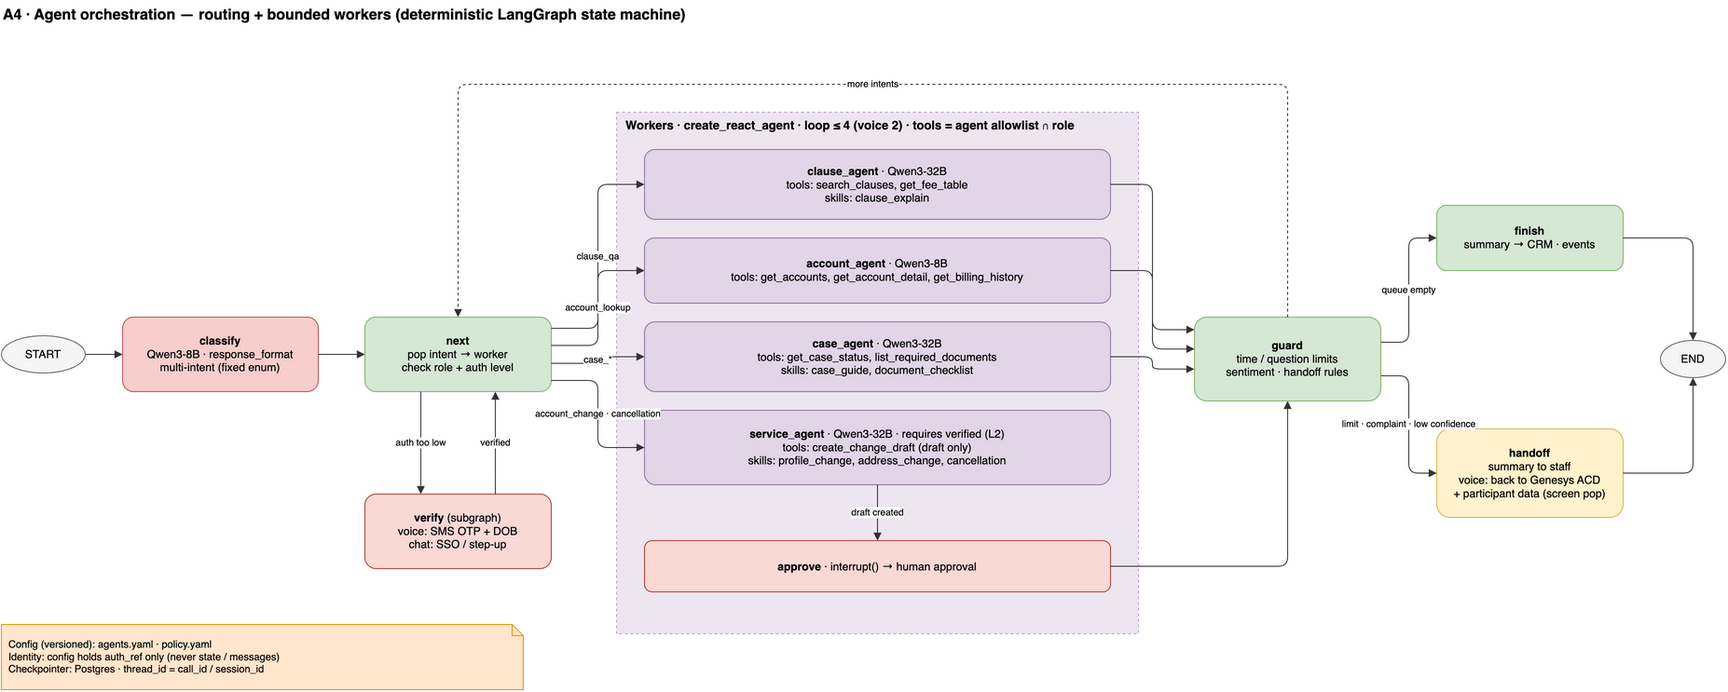
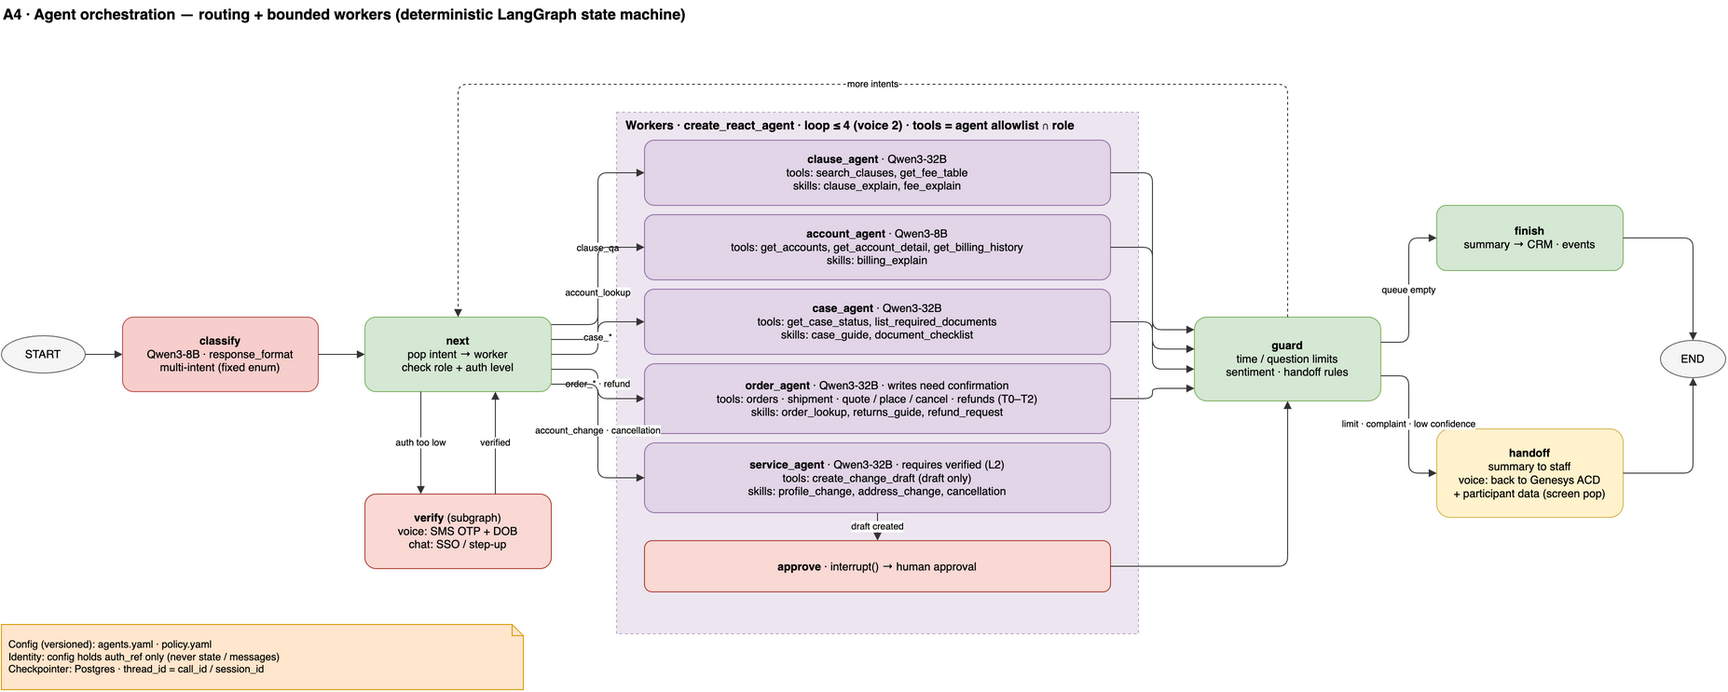
v1.9: per-agent skills (SKILL.md) and MCP server clarifications
- Rewrite 4.4: one skills folder per agent, shared skills by explicit
  allowlist, catalogue of 12 skills with model vs router loading,
  SKILL.md front matter and body format, lifecycle and eval gating.
- Workers table gains fee_explain, billing_explain, refund_request.
- Explain MCP servers in the components table; add the missing Order MCP.
- Diagrams A2, A3 (Order and Identity MCP) and A4 (order_agent, skills).

diff --git a/tools/gen_components.py b/tools/gen_components.py
@@ -48,11 +48,12 @@ orch = d.box("<b>Orchestrator</b><br>LangGraph: router + workers<br>checkpoints 
 tst = d.box("<b>Token store</b><br>auth_ref → token (Redis, TTL)", 740, 370, 240, 60, "sec")
 ver = d.box("<b>Verification service</b><br>SMS OTP + DOB (DTMF) → IdP", 1060, 370, 240, 60, "core")
 rag = d.box("<b>RAG service</b><br>rewrite · hybrid search ·<br>rerank · citation check", 60, 490, 260, 80, "agent")
-mz = d.zone("MCP servers (one client cert each)", 700, 470, 320, 250, "agent")
-d.box("Account MCP", 720, 505, 280, 40, "agent")
-d.box("Case MCP", 720, 555, 280, 40, "agent")
-d.box("Change MCP (draft only)", 720, 605, 280, 40, "agent")
-d.box("Identity MCP", 720, 655, 280, 40, "agent")
+mz = d.zone("MCP servers — tools the agents call<br>(own mTLS client cert each)", 700, 470, 320, 272, "agent")
+d.box("Account MCP", 720, 517, 280, 36, "agent")
+d.box("Case MCP", 720, 561, 280, 36, "agent")
+d.box("Order MCP", 720, 605, 280, 36, "agent")
+d.box("Change MCP (draft only)", 720, 649, 280, 36, "agent")
+d.box("Identity MCP", 720, 693, 280, 36, "agent")
 apv = d.box("<b>Approval service</b><br>SoD check → Command(resume)", 1060, 470, 240, 60, "core")
 nts = d.box("<b>Notification service</b><br>chat thread / push / SMS", 1060, 570, 240, 60, "core")
 mgw = d.box("<b>Model gateway</b><br>routing · quotas · cost per channel", 60, 650, 260, 60, "model")
@@ -134,10 +135,12 @@ cpu = d.zone("CPU node pool", 40, 370, 880, 320, "core")
 orch = d.box("Orchestrator", 80, 410, 180, 55, "core")
 rag = d.box("RAG service", 80, 505, 180, 55, "agent")
 mg = d.box("Model gateway", 80, 600, 180, 55, "model")
-mz = d.zone("MCP servers<br>client cert A / B / C", 320, 400, 200, 270, "agent")
-d.box("Account MCP · cert A", 335, 455, 170, 45, "agent")
-d.box("Case MCP · cert B", 335, 520, 170, 45, "agent")
-d.box("Change MCP · cert C", 335, 585, 170, 45, "agent")
+mz = d.zone("MCP servers<br>client cert A–E", 320, 400, 200, 285, "agent")
+d.box("Account MCP · cert A", 335, 445, 170, 40, "agent")
+d.box("Case MCP · cert B", 335, 491, 170, 40, "agent")
+d.box("Order MCP · cert C", 335, 537, 170, 40, "agent")
+d.box("Change MCP · cert D", 335, 583, 170, 40, "agent")
+d.box("Identity MCP · cert E", 335, 629, 170, 40, "agent")
 d.note("<b>Service mesh</b> (Istio / Linkerd)<br>automatic mTLS between pods<br>short-lived workload certs (SPIFFE)<br>authz: only orchestrator → RAG / MCP", 560, 400, 330, 110)
 d.note("<b>cert-manager / Vault</b><br>client certs from the client's PKI<br>auto-renewal + expiry alerts", 560, 540, 330, 90)
 d.zone("GPU node pool (tainted)", 950, 370, 810, 320, "model")
@@ -175,10 +178,11 @@ cl = d.box("<b>classify</b><br>Qwen3-8B · response_format<br>multi-intent (fixe
 nx = d.box("<b>next</b><br>pop intent → worker<br>check role + auth level", 430, 350, 200, 80, "core")
 vf = d.box("<b>verify</b> (subgraph)<br>voice: SMS OTP + DOB<br>chat: SSO / step-up", 430, 540, 200, 80, "sec")
 d.zone("Workers · create_react_agent · loop ≤ 4 (voice 2) · tools = agent allowlist ∩ role", 700, 130, 560, 560, "agent")
-w1 = d.box("<b>clause_agent</b> · Qwen3-32B<br>tools: search_clauses, get_fee_table<br>skills: clause_explain", 730, 170, 500, 75, "agent")
-w2 = d.box("<b>account_agent</b> · Qwen3-8B<br>tools: get_accounts, get_account_detail, get_billing_history", 730, 265, 500, 70, "agent")
-w3 = d.box("<b>case_agent</b> · Qwen3-32B<br>tools: get_case_status, list_required_documents<br>skills: case_guide, document_checklist", 730, 355, 500, 75, "agent")
-w4 = d.box("<b>service_agent</b> · Qwen3-32B · requires verified (L2)<br>tools: create_change_draft (draft only)<br>skills: profile_change, address_change, cancellation", 730, 450, 500, 80, "agent")
+w1 = d.box("<b>clause_agent</b> · Qwen3-32B<br>tools: search_clauses, get_fee_table<br>skills: clause_explain, fee_explain", 730, 160, 500, 70, "agent")
+w2 = d.box("<b>account_agent</b> · Qwen3-8B<br>tools: get_accounts, get_account_detail, get_billing_history<br>skills: billing_explain", 730, 240, 500, 70, "agent")
+w3 = d.box("<b>case_agent</b> · Qwen3-32B<br>tools: get_case_status, list_required_documents<br>skills: case_guide, document_checklist", 730, 320, 500, 70, "agent")
+w5 = d.box("<b>order_agent</b> · Qwen3-32B · writes need confirmation<br>tools: orders · shipment · quote / place / cancel · refunds (T0–T2)<br>skills: order_lookup, returns_guide, refund_request", 730, 400, 500, 75, "agent")
+w4 = d.box("<b>service_agent</b> · Qwen3-32B · requires verified (L2)<br>tools: create_change_draft (draft only)<br>skills: profile_change, address_change, cancellation", 730, 485, 500, 75, "agent")
 ap = d.box("<b>approve</b> · interrupt() → human approval", 730, 590, 500, 55, "sec")
 gd = d.box("<b>guard</b><br>time / question limits<br>sentiment · handoff rules", 1320, 350, 200, 90, "core")
 fi = d.box("<b>finish</b><br>summary → CRM · events", 1580, 230, 200, 70, "core")
@@ -187,13 +191,14 @@ en = d.box("END", 1820, 375, 70, 40, "data", shape="ellipse")
 d.link(st, cl); d.link(cl, nx)
 d.link(nx, vf, "auth too low", exit=(.3, 1), entry=(.3, 0))
 d.link(vf, nx, "verified", exit=(.7, 0), entry=(.7, 1))
-d.link(nx, w1, "clause_qa", exit=(1, .15), entry=(0, .5))
-d.link(nx, w2, "account_lookup", exit=(1, .38), entry=(0, .5))
-d.link(nx, w3, "case_*", exit=(1, .62), entry=(0, .5))
-d.link(nx, w4, "account_change · cancellation", exit=(1, .85), entry=(0, .5))
+d.link(nx, w1, "clause_qa", exit=(1, .1), entry=(0, .5))
+d.link(nx, w2, "account_lookup", exit=(1, .3), entry=(0, .5))
+d.link(nx, w3, "case_*", exit=(1, .5), entry=(0, .5))
+d.link(nx, w5, "order_* · refund", exit=(1, .7), entry=(0, .5))
+d.link(nx, w4, "account_change · cancellation", exit=(1, .9), entry=(0, .5))
 d.link(w4, ap, "draft created", exit=(.5, 1), entry=(.5, 0))
 d.link(w1, gd, "", exit=(1, .5), entry=(0, .15)); d.link(w2, gd, "", exit=(1, .5), entry=(0, .38))
-d.link(w3, gd, "", exit=(1, .5), entry=(0, .62)); d.link(ap, gd, "", exit=(1, .5), entry=(.5, 1))
+d.link(w3, gd, "", exit=(1, .5), entry=(0, .62)); d.link(w5, gd, "", exit=(1, .5), entry=(0, .85)); d.link(ap, gd, "", exit=(1, .5), entry=(.5, 1))
 d.link(gd, nx, "more intents", dashed=True, exit=(.5, 0), entry=(.5, 0), points=[(1420, 100), (530, 100)])
 d.link(gd, fi, "queue empty", exit=(1, .3), entry=(0, .5))
 d.link(gd, ho, "limit · complaint · low confidence", exit=(1, .7), entry=(0, .5))

diff --git a/README.md b/README.md
@@ -106,7 +106,7 @@ Both channels handle five kinds of request:
 | **Token store** | `auth_ref → token`, encrypted in Redis with a TTL; tokens never enter agent state |
 | **Orchestrator** | LangGraph router and workers, Postgres checkpoints, token exchange for downstream calls |
 | **RAG service** | Query rewriting, hybrid search, reranking, citation verification |
-| **MCP servers** | Account, case, change (drafts only) and identity tools; each has its own client certificate |
+| **MCP servers** | The tool layer between the agents and the systems of record: account, case, order, change (drafts only) and identity tools. The LLM only ever sees these tools, never the raw APIs ([4.6](#46-tool-and-api-contracts)). Each server has **its own mTLS client certificate**, so the internal gateway knows which server is calling and lets it reach only its own APIs (for example, the change server can create drafts but cannot read orders). |
 | **Model gateway** | Model routing, quotas, cost attribution per channel and feature |
 | **Approval service** | Staff approvals with separation of duties; resumes paused graphs |
 | **Notification service** | Post-call message to the chat thread, as a push notification, or by SMS |
@@ -188,11 +188,11 @@ In Anthropic's terms this is a **workflow, not an autonomous agent**: a routing 
 
 | Worker | Model | Tools | Skills | Minimum assurance |
 |---|---|---|---|---|
-| `clause_agent` | Qwen3-32B | `search_clauses`, `get_fee_table` | `clause_explain` | anonymous |
-| `account_agent` | Qwen3-8B | `get_accounts`, `get_account_detail`, `get_billing_history` | — | verified |
+| `clause_agent` | Qwen3-32B | `search_clauses`, `get_fee_table` | `clause_explain`, `fee_explain` | anonymous |
+| `account_agent` | Qwen3-8B | `get_accounts`, `get_account_detail`, `get_billing_history` | `billing_explain` | verified |
 | `case_agent` | Qwen3-32B | `get_case_status`, `list_required_documents` | `case_guide`, `document_checklist` | verified |
 | `service_agent` | Qwen3-32B | `create_change_draft` (**draft only**) | `profile_change`, `address_change`, `cancellation` | verified + step-up |
-| `order_agent` | Qwen3-32B | `list_orders`, `search_order_history`, `get_order`, `get_spend_summary`, `track_shipment`, `quote_order`, `place_order`, `cancel_order`, `check_refund_eligibility`, `request_refund`, `get_refund_status`, `search_policy` | `order_lookup`, `returns_guide` | verified; writes need explicit confirmation |
+| `order_agent` | Qwen3-32B | `list_orders`, `search_order_history`, `get_order`, `get_spend_summary`, `track_shipment`, `quote_order`, `place_order`, `cancel_order`, `check_refund_eligibility`, `request_refund`, `get_refund_status`, `search_policy` | `order_lookup`, `returns_guide`, `refund_request` | verified; writes need explicit confirmation |
 
 ### 4.3 Configuration lives in code, not in prompts
 
@@ -201,16 +201,94 @@ In Anthropic's terms this is a **workflow, not an autonomous agent**: a routing 
 - Both are **versioned in Git, validated at startup, baked into an immutable image per release**, and changed only through reviewed pull requests (security and compliance approve permission changes).
 - **The prompt explains *when* to use a tool; the binding decides *whether* the model can see it.** Effective tools = agent allowlist ∩ role permissions.
 
-### 4.4 Skills (loaded on demand)
+### 4.4 Skills: one folder per agent
 
-Skills are packaged instructions: a folder with a `SKILL.md` plus optional reference files. They are many-to-many with agents.
+A skill is a written procedure for one kind of request: when it applies, the steps, what to say, what never to do and when to hand off. Prompts say *who the agent is*; tools say *what it can do*; skills say *how to handle a specific case*. Business and compliance teams can review a skill as a document without reading code.
 
-Progressive loading:
-1. Only each skill's name and description sit in the system prompt.
-2. The body arrives through a `load_skill` tool call when the model decides it needs it.
-3. Reference files are read later through `read_skill_file`, with path-traversal checks.
+**Each worker owns its own skills.** A worker can load only the skills in its own folder, plus shared skills listed for it in `config/agents.yaml`. Code enforces this, the same way as the tool allowlist.
 
-**Compliance-critical flows are loaded deterministically by the router**, not left to the model. Rules that must always apply, such as disclaimers, stay in the system prompt.
+```
+skills/
+  clause_agent/
+    clause_explain/SKILL.md
+    fee_explain/SKILL.md
+  account_agent/
+    billing_explain/SKILL.md
+  case_agent/
+    case_guide/SKILL.md
+    document_checklist/SKILL.md
+      references/required_documents.yaml
+  service_agent/
+    profile_change/SKILL.md
+    address_change/SKILL.md
+    cancellation/SKILL.md
+      references/retention_offers.md
+  order_agent/
+    order_lookup/SKILL.md
+    returns_guide/SKILL.md
+    refund_request/SKILL.md
+  _shared/
+    vulnerable_customer/SKILL.md
+```
+
+Skills belong to the **domain pack**: another industry replaces the folders, not the core.
+
+| Agent | Skill | What it covers | Loaded by |
+|---|---|---|---|
+| `clause_agent` | `clause_explain` | Explain a clause in plain language, one citation per sentence, no binding promises | Model |
+| | `fee_explain` | Read the fee table for the customer's plan and version, show the calculation | Model |
+| `account_agent` | `billing_explain` | Why a bill changed: compare two periods, list the line items that moved | Model |
+| `case_agent` | `case_guide` | What each case status means, what happens next, expected time | Model |
+| | `document_checklist` | Documents still missing for this case type, how to upload them | Model |
+| `service_agent` | `profile_change` | Contact-detail change as a draft, read-back before submitting | **Router** |
+| | `address_change` | Address change as a draft, proof-of-address rules | **Router** |
+| | `cancellation` | Mandatory disclosures, cooling-off rules, one retention offer at most, then a draft | **Router** |
+| `order_agent` | `order_lookup` | Find the right order from vague descriptions (date, item, amount) | Model |
+| | `returns_guide` | Return eligibility and steps by product category | Model |
+| | `refund_request` | Quote → confirm → commit; above the threshold, a draft for approval | **Router** |
+| shared | `vulnerable_customer` | Signs of distress or vulnerability → gentle tone, no selling, offer a human | Router (sentiment or keyword trigger) |
+
+**SKILL.md format.** Front matter is metadata that code checks at startup; the body is the procedure.
+
+```markdown
+---
+name: cancellation
+description: Cancel a plan or account. Use when the customer asks to cancel or close.
+agent: service_agent
+version: 1.4.0
+owner: retention-team
+compliance_review: CR-2026-031
+channels: [chat, voice]
+min_assurance: verified+step_up
+tools: [create_change_draft]
+eval_tags: [cancellation]
+---
+## When to use
+## Steps
+1. Read back the plan and contract end date.
+2. State the mandatory disclosures (references/disclosures.md).
+3. Make at most one retention offer; do not repeat it after a no.
+4. Create the cancellation draft; tell the customer it needs approval.
+## Never
+- Promise a refund amount or a date.
+## Hand off when
+- The customer disputes a charge, or mentions hardship.
+## Voice
+- At most 2 sentences per turn; confirm with yes or no.
+```
+
+**Loading.**
+1. The system prompt lists only the name and description of the worker's skills.
+2. The model calls `load_skill(name)` when it needs one. The tool refuses names outside the worker's allowlist.
+3. Reference files are read with `read_skill_file`, with path-traversal checks.
+4. **Compliance-critical skills are loaded by the router before the worker runs** (marked *Router* above), so the procedure can't be skipped.
+5. Budgets: a skill body is at most 2k tokens; at most 2 loads per turn in chat and 1 on voice ([Appendix A](#appendix-a-system-boundaries)).
+
+**Lifecycle.** The same path as prompts ([section 16](#16-llmops-git-pipeline-and-langfuse)):
+- Git pull request reviewed by the skill owner, plus compliance for skills with `compliance_review`;
+- CI checks the front matter (agent exists, tools are in that agent's allowlist, assurance level is valid);
+- golden-set cases tagged with the skill's `eval_tags` must pass before merge;
+- the release manifest pins each skill version, and Langfuse traces record which skills and versions were loaded.
 
 ### 4.5 What one LLM call contains
 

diff --git a/README.zh-CN.md b/README.zh-CN.md
@@ -108,7 +108,7 @@
 | **Token store** | `auth_ref → token`，加密存于 Redis，带 TTL；token 永不进入 agent state |
 | **编排器** | LangGraph 路由与 worker、Postgres checkpoint、为下游调用做 token exchange |
 | **RAG 服务** | 查询改写、混合检索、重排、引用校验 |
-| **MCP server** | 账户、工单、变更（仅草稿）和身份工具；每个都有自己的客户端证书 |
+| **MCP server** | Agent 和业务系统之间的工具层：账户、工单、订单、变更（仅草稿）和身份工具。LLM 只能看到这些工具，永远看不到原始 API（[4.6](#46-tool-与-api-契约)）。每个 server 有 **自己的 mTLS 客户端证书**，内部网关因此知道是哪个 server 在调用，只允许它访问自己的 API（例如变更 server 能建草稿，但不能读订单）。 |
 | **模型网关** | 模型路由、配额、按渠道和功能统计成本 |
 | **审批服务** | 员工审批，职责分离；恢复暂停中的 graph |
 | **通知服务** | 通话后发消息到聊天线程、推送通知或短信 |
@@ -190,11 +190,11 @@
 
 | Worker | 模型 | 工具 | Skills | 最低认证等级 |
 |---|---|---|---|---|
-| `clause_agent` | Qwen3-32B | `search_clauses`, `get_fee_table` | `clause_explain` | 匿名 |
-| `account_agent` | Qwen3-8B | `get_accounts`, `get_account_detail`, `get_billing_history` | — | 已核验 |
+| `clause_agent` | Qwen3-32B | `search_clauses`, `get_fee_table` | `clause_explain`, `fee_explain` | 匿名 |
+| `account_agent` | Qwen3-8B | `get_accounts`, `get_account_detail`, `get_billing_history` | `billing_explain` | 已核验 |
 | `case_agent` | Qwen3-32B | `get_case_status`, `list_required_documents` | `case_guide`, `document_checklist` | 已核验 |
 | `service_agent` | Qwen3-32B | `create_change_draft`（**仅草稿**） | `profile_change`, `address_change`, `cancellation` | 已核验 + step-up |
-| `order_agent` | Qwen3-32B | `list_orders`, `search_order_history`, `get_order`, `get_spend_summary`, `track_shipment`, `quote_order`, `place_order`, `cancel_order`, `check_refund_eligibility`, `request_refund`, `get_refund_status`, `search_policy` | `order_lookup`, `returns_guide` | 已核验；写操作需要明确确认 |
+| `order_agent` | Qwen3-32B | `list_orders`, `search_order_history`, `get_order`, `get_spend_summary`, `track_shipment`, `quote_order`, `place_order`, `cancel_order`, `check_refund_eligibility`, `request_refund`, `get_refund_status`, `search_policy` | `order_lookup`, `returns_guide`, `refund_request` | 已核验；写操作需要明确确认 |
 
 ### 4.3 配置写在代码里，不写在 prompt 里
 
@@ -203,16 +203,94 @@
 - 两者都 **在 Git 里做版本管理、启动时校验、每次发布打进不可变镜像**，只能通过评审过的 PR 修改（权限变更需安全和合规审批）。
 - **Prompt 解释 *什么时候* 用某个工具；绑定关系决定模型 *能不能看到* 它。** 实际可用工具 = agent 白名单 ∩ 角色权限。
 
-### 4.4 Skills（按需加载）
+### 4.4 Skills：每个 agent 一个文件夹
 
-Skill 是打包好的指令：一个文件夹，含 `SKILL.md` 和可选的参考文件。与 agent 是多对多关系。
+Skill 是针对某一类请求写好的处理流程：什么时候适用、步骤、该说什么、绝对不能做什么、什么时候转人工。Prompt 说明 *agent 是谁*；工具说明 *它能做什么*；skill 说明 *具体情况怎么处理*。业务和合规团队可以直接把 skill 当文档审阅，不用看代码。
 
-渐进式加载：
-1. System prompt 里只放每个 skill 的名称和描述。
-2. 模型判断需要时，通过 `load_skill` 工具调用拿到正文。
-3. 参考文件之后通过 `read_skill_file` 读取，带路径穿越检查。
+**每个 worker 有自己的 skill。** Worker 只能加载自己文件夹里的 skill，以及 `config/agents.yaml` 里为它列出的共享 skill。和工具白名单一样，由代码强制执行。
 
-**合规关键的流程由路由器确定性加载**，不交给模型决定。必须始终生效的规则（例如免责声明）留在 system prompt 里。
+```
+skills/
+  clause_agent/
+    clause_explain/SKILL.md
+    fee_explain/SKILL.md
+  account_agent/
+    billing_explain/SKILL.md
+  case_agent/
+    case_guide/SKILL.md
+    document_checklist/SKILL.md
+      references/required_documents.yaml
+  service_agent/
+    profile_change/SKILL.md
+    address_change/SKILL.md
+    cancellation/SKILL.md
+      references/retention_offers.md
+  order_agent/
+    order_lookup/SKILL.md
+    returns_guide/SKILL.md
+    refund_request/SKILL.md
+  _shared/
+    vulnerable_customer/SKILL.md
+```
+
+Skill 属于 **行业包**：换一个行业时替换这些文件夹，核心不变。
+
+| Agent | Skill | 内容 | 由谁加载 |
+|---|---|---|---|
+| `clause_agent` | `clause_explain` | 用通俗语言解释条款，每句一个引用，不做约束性承诺 | 模型 |
+| | `fee_explain` | 按客户的套餐和版本读取费用表，给出计算过程 | 模型 |
+| `account_agent` | `billing_explain` | 账单为什么变了：对比两个账期，列出变化的项目 | 模型 |
+| `case_agent` | `case_guide` | 每个工单状态的含义、下一步、预计时间 | 模型 |
+| | `document_checklist` | 这类工单还缺哪些文件、怎么上传 | 模型 |
+| `service_agent` | `profile_change` | 联系方式变更做成草稿，提交前复述确认 | **路由器** |
+| | `address_change` | 地址变更做成草稿，地址证明的要求 | **路由器** |
+| | `cancellation` | 必须告知的事项、冷静期规则、最多一次挽留，然后生成草稿 | **路由器** |
+| `order_agent` | `order_lookup` | 根据模糊描述（日期、商品、金额）找到正确的订单 | 模型 |
+| | `returns_guide` | 按商品类别说明退货条件和步骤 | 模型 |
+| | `refund_request` | 报价 → 确认 → 提交；超过阈值则生成草稿等待审批 | **路由器** |
+| 共享 | `vulnerable_customer` | 发现情绪困扰或弱势迹象 → 语气温和、不推销、主动提供人工 | 路由器（情绪或关键词触发） |
+
+**SKILL.md 格式。** Front matter 是启动时由代码校验的元数据；正文是处理流程。
+
+```markdown
+---
+name: cancellation
+description: Cancel a plan or account. Use when the customer asks to cancel or close.
+agent: service_agent
+version: 1.4.0
+owner: retention-team
+compliance_review: CR-2026-031
+channels: [chat, voice]
+min_assurance: verified+step_up
+tools: [create_change_draft]
+eval_tags: [cancellation]
+---
+## When to use
+## Steps
+1. Read back the plan and contract end date.
+2. State the mandatory disclosures (references/disclosures.md).
+3. Make at most one retention offer; do not repeat it after a no.
+4. Create the cancellation draft; tell the customer it needs approval.
+## Never
+- Promise a refund amount or a date.
+## Hand off when
+- The customer disputes a charge, or mentions hardship.
+## Voice
+- At most 2 sentences per turn; confirm with yes or no.
+```
+
+**加载方式。**
+1. System prompt 里只列出该 worker 的 skill 名称和描述。
+2. 模型需要时调用 `load_skill(name)`。不在该 worker 白名单里的名称会被拒绝。
+3. 参考文件通过 `read_skill_file` 读取，带路径穿越检查。
+4. **合规关键的 skill 由路由器在 worker 运行前加载**（上表标为"路由器"），所以流程不会被跳过。
+5. 预算：每个 skill 正文最多 2k token；聊天每轮最多加载 2 个，语音每轮最多 1 个（[附录 A](#附录-a-系统边界)）。
+
+**生命周期。** 和 prompt 走同一条路径（[第 16 节](#16-llmops-git-流水线与-langfuse)）：
+- Git pull request 由 skill 负责人审阅，带 `compliance_review` 的还要合规审阅；
+- CI 校验 front matter（agent 存在、工具在该 agent 的白名单里、身份等级有效）；
+- 打了该 skill `eval_tags` 的 golden set 用例必须通过才能合并；
+- 发布清单锁定每个 skill 的版本，Langfuse trace 记录加载了哪些 skill 和版本。
 
 ### 4.5 一次 LLM 调用包含什么
 

diff --git a/CHANGELOG.md b/CHANGELOG.md
@@ -8,6 +8,28 @@ Newest first. Each entry is written in English and Chinese. Diagram IDs refer to
 
 ---
 
+## v1.9 — 2026-11-25
+
+**English**
+- **4.4 Skills rewritten: one folder per agent** (`skills/<agent>/<skill>/SKILL.md`, plus `_shared/`). A worker can load only its own skills and the shared ones listed for it, enforced in code like the tool allowlist.
+- Skill catalogue per agent (12 skills), with who loads each one (model or router); compliance-critical skills (`profile_change`, `address_change`, `cancellation`, `refund_request`, `vulnerable_customer`) are loaded by the router.
+- `SKILL.md` format: front matter checked at startup (agent, version, owner, compliance review, channels, assurance, tools, eval tags) and a procedure body (when to use, steps, never, hand off, voice).
+- Skill lifecycle: owner and compliance review, CI front-matter checks, tagged golden-set cases, versions pinned in the release manifest and recorded in traces.
+- 4.2 workers table: new skills `fee_explain`, `billing_explain`, `refund_request`.
+- Components table: MCP servers explained (the tool layer; one mTLS client certificate per server so the internal gateway limits each to its own APIs); Order MCP added.
+- Diagrams: A2 and A3 add the missing Order MCP (A3 also Identity MCP); A4 adds `order_agent` and the new skills.
+
+**中文**
+- **重写 4.4 Skills：每个 agent 一个文件夹**（`skills/<agent>/<skill>/SKILL.md`，另有 `_shared/`）。Worker 只能加载自己的 skill 和为它列出的共享 skill，像工具白名单一样由代码强制执行。
+- 按 agent 列出 skill 清单（12 个），并标明由谁加载（模型或路由器）；合规关键的 skill（`profile_change`、`address_change`、`cancellation`、`refund_request`、`vulnerable_customer`）由路由器加载。
+- `SKILL.md` 格式：启动时校验的 front matter（agent、版本、负责人、合规审阅、渠道、身份等级、工具、评估标签）和流程正文（适用场景、步骤、禁止事项、转人工、语音）。
+- Skill 生命周期：负责人和合规审阅、CI 校验 front matter、带标签的 golden set 用例、版本锁定在发布清单并记录在 trace 中。
+- 4.2 worker 表：新增 `fee_explain`、`billing_explain`、`refund_request`。
+- 组件表：解释 MCP server（工具层；每个 server 一张 mTLS 客户端证书，内部网关只允许它访问自己的 API）；补上订单 MCP。
+- 图：A2 和 A3 补上缺失的订单 MCP（A3 还补上身份 MCP）；A4 加入 `order_agent` 和新 skill。
+
+---
+
 ## v1.8 — 2026-11-25
 
 **English**
